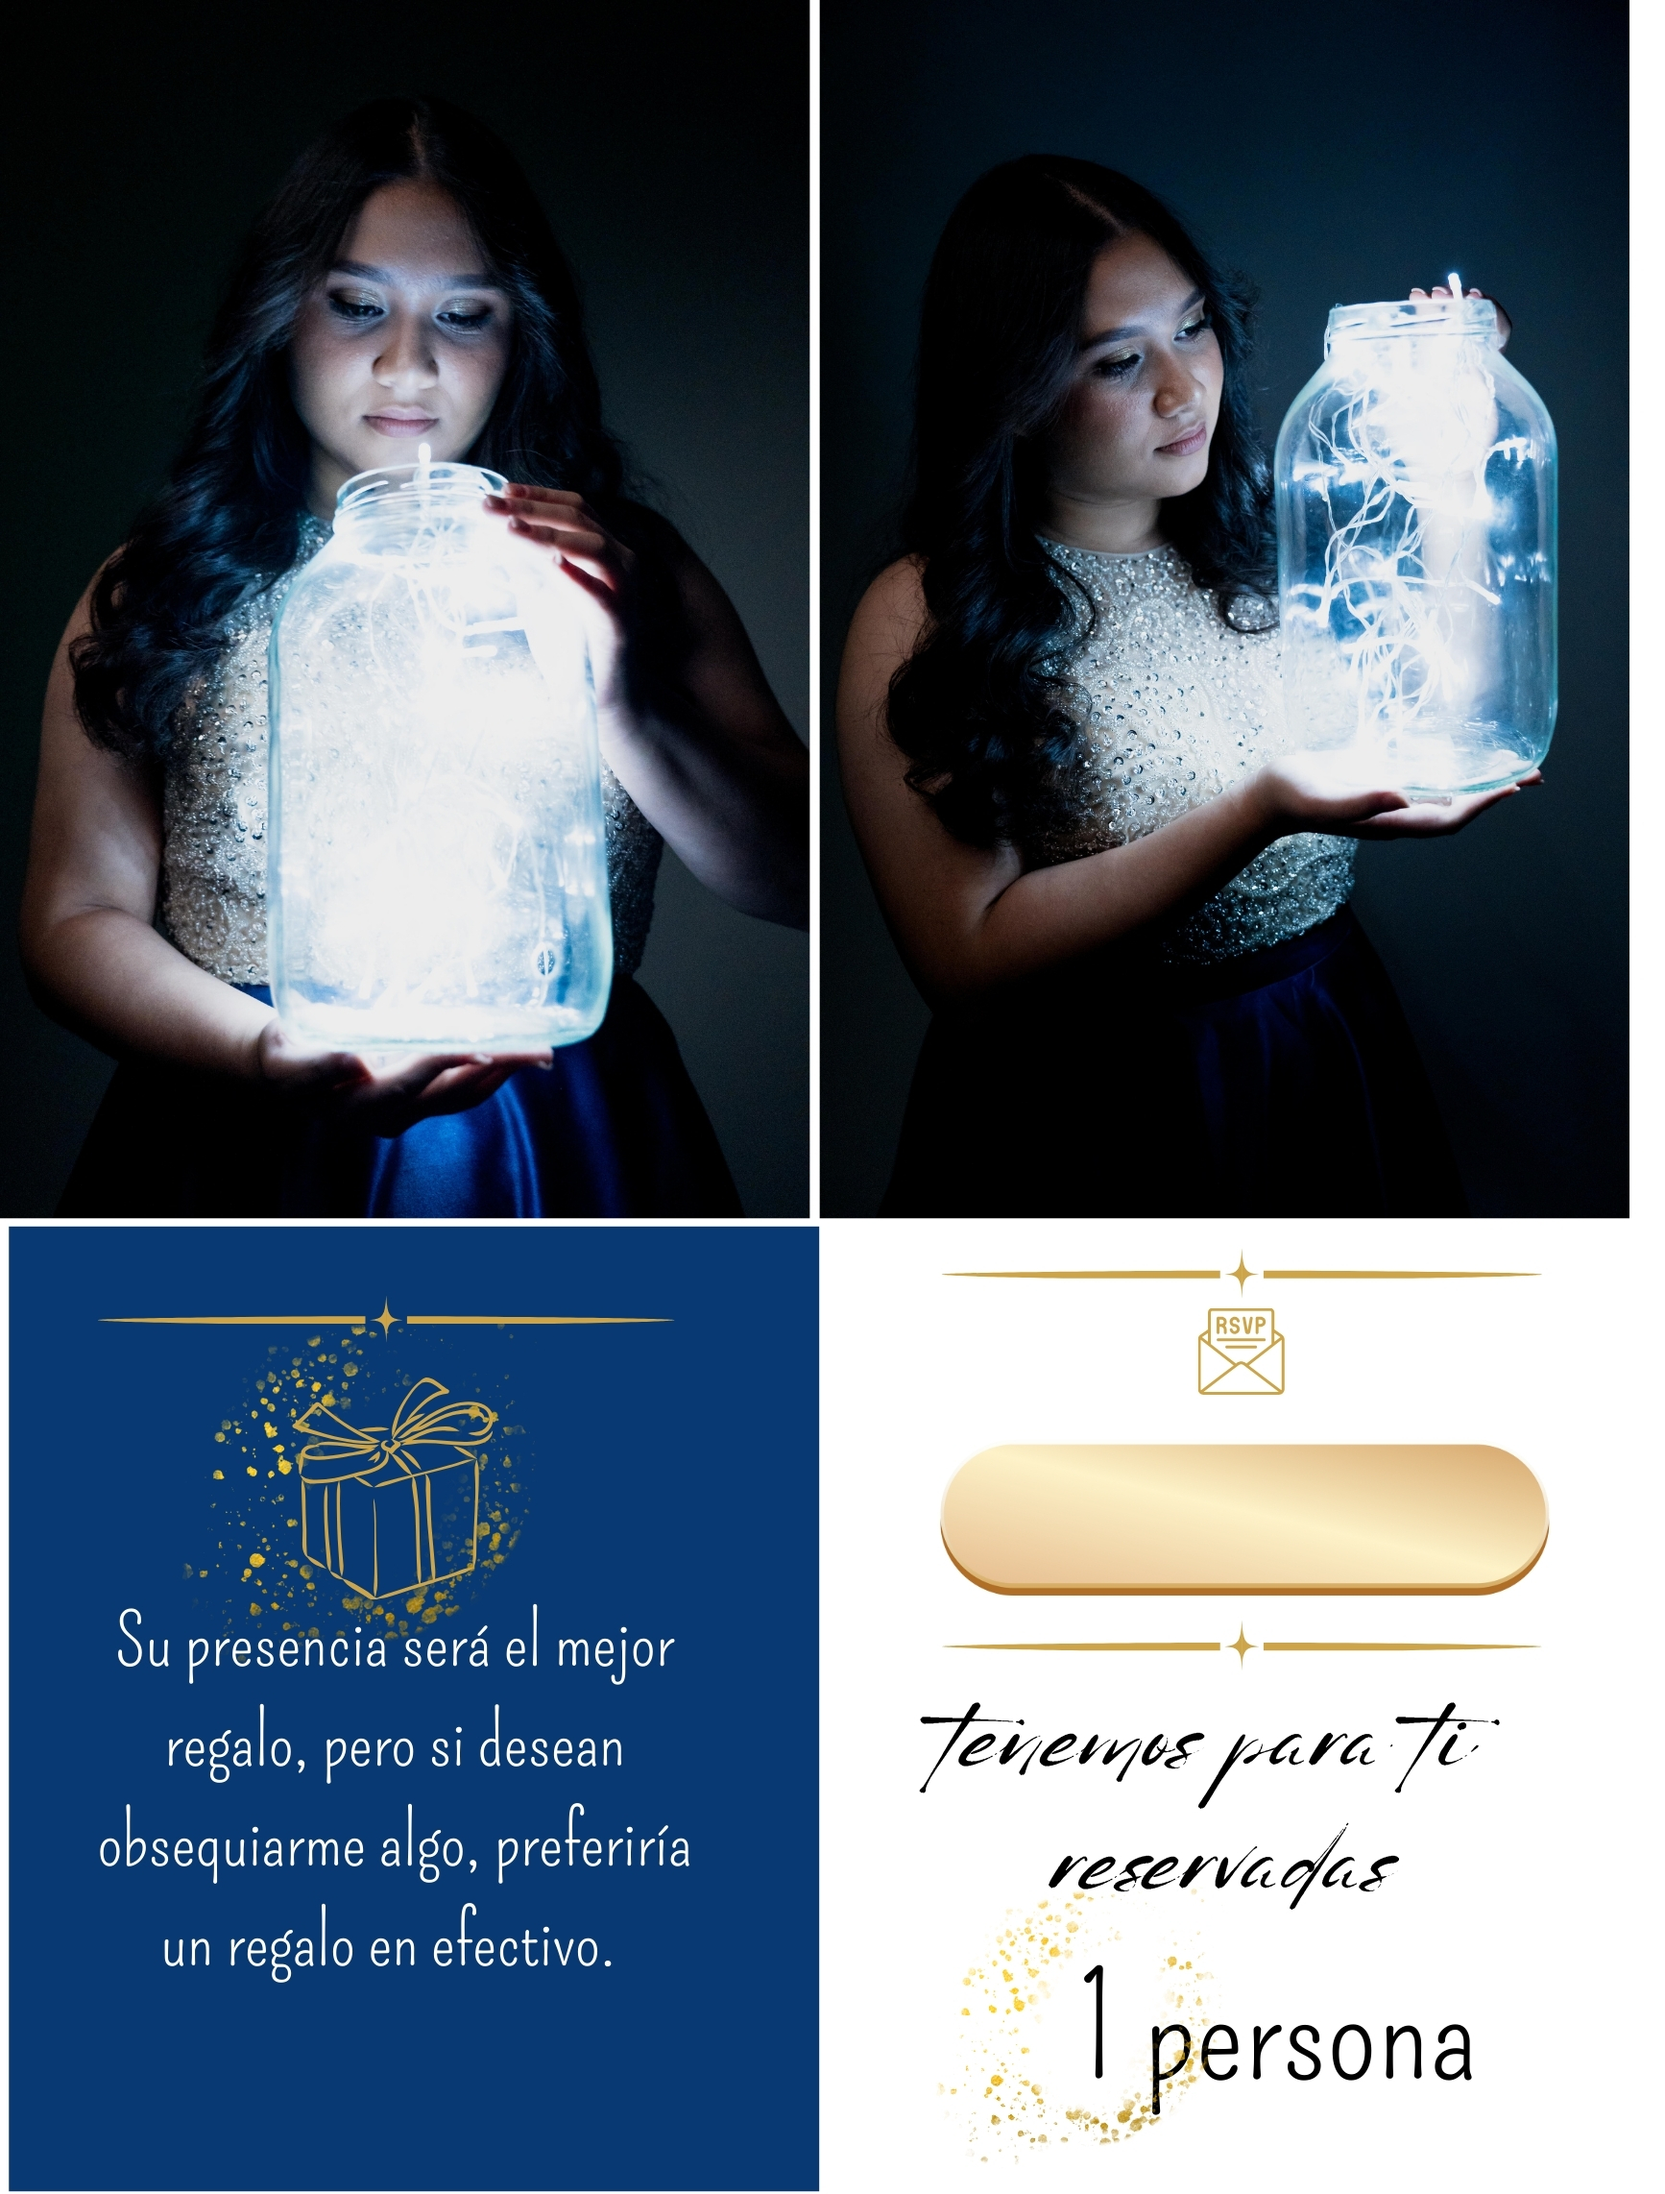
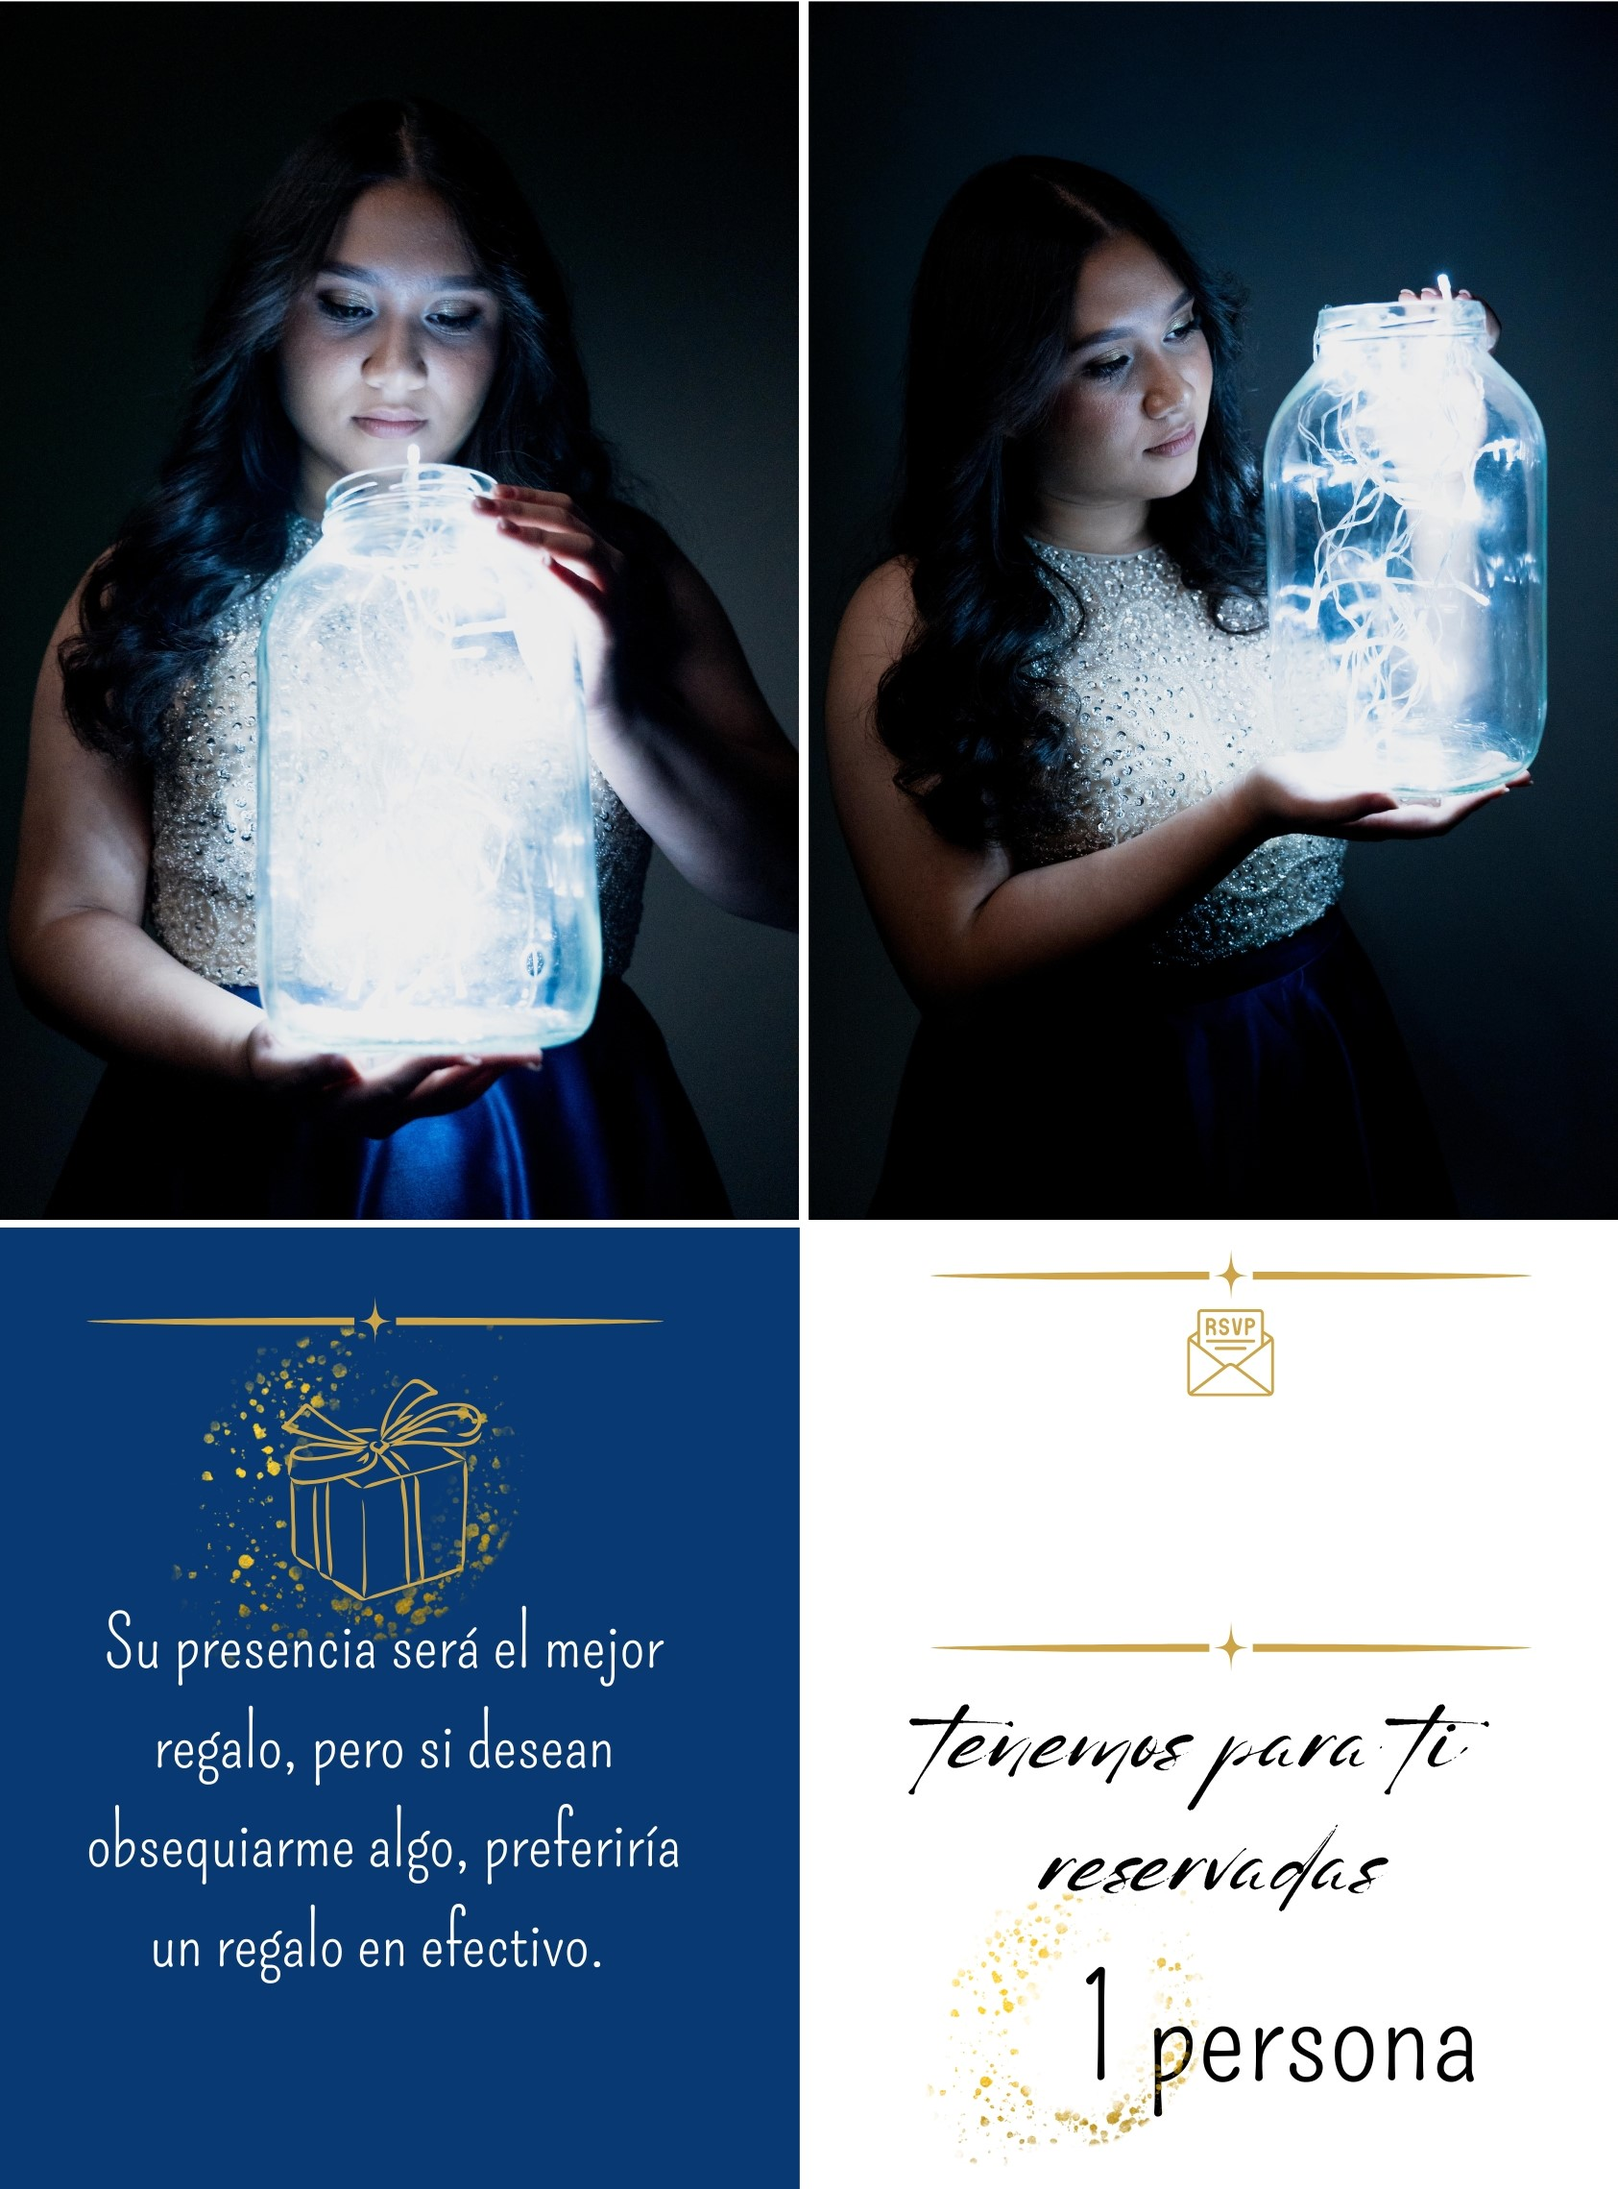
cambio de botones

diff --git a/css/style.css b/css/style.css
@@ -419,7 +419,7 @@ a.de-button.large.rounded, span.de-button.large.rounded, input[type=submit].larg
     padding: 10px;
     border-radius: 1px;
     text-decoration: none;
-    color: #333;
+    color: rgb(255, 255, 255);
     font-size: 25px;
     font-weight: bold;
     z-index: 1;
@@ -427,18 +427,20 @@ a.de-button.large.rounded, span.de-button.large.rounded, input[type=submit].larg
 
     .enlace-sobre-imagen1 {
         position: absolute;
-        bottom: 17vh;
-        left: 88%;
-        transform: translateX(-88%);
-        padding: 50px 20px;
+        bottom: 17.5vh;
+        left: 95%;
+        transform: translateX(-95%);
+        padding: 10px 5px; /* Reducir el padding para evitar que ocupe más espacio */
         border-radius: 1px;
         text-decoration: none;
-        color: #333;
+        color: black;
         font-size: 10px;
         font-weight: bold;
         z-index: 1;
         letter-spacing: 0px;
-	white-space: nowrap; /* Evita que el texto se divida en dos líneas */
+        white-space: nowrap; /* Evita que el texto se divida en dos líneas */
+        
+
         }
 
         /*footer*/
@@ -497,10 +499,17 @@ a.de-button.large.rounded, span.de-button.large.rounded, input[type=submit].larg
         padding: 8px 20px;
         font-size: 12px;
     }
-
     /* Enlaces superpuestos en imágenes */
-    .enlace-sobre-imagen, .enlace-sobre-imagen1 {
+    .enlace-sobre-imagen1 {
         font-size: 12px;
+        padding: 15px;
+        text-align: center; /* Centra el contenido horizontalmente */
+        
+    }
+
+     /* Enlaces superpuestos en imágenes */
+     .enlace-sobre-imagen {
+        font-size: 15px;
         padding: 15px;
     }
 

diff --git a/index.html b/index.html
@@ -69,7 +69,7 @@
             <div style="position: relative;">
                 <a href="img/DS0002.jpg" class="swipebox" title="My Caption" target="_blank">
                     <img src="img/DS0002.jpg" alt="image" class="img-fluid">
-                    <a href="https://maps.app.goo.gl/dHMfErYiFaTecZC69" class="enlace-sobre-imagen">Ver ubicación</a>
+                    <a href="https://maps.app.goo.gl/dHMfErYiFaTecZC69" class="enlace-sobre-imagen de-button small rounded">Ver ubicación</a>
                 </a>
             </div>
         </div>
@@ -89,7 +89,7 @@
         <div style="position: relative;">
             <a href="img/DS0004.jpg" class="swipebox" title="My Caption" target="_blank">
                 <img src="img/DS0004.jpg" alt="image" class="img-fluid">
-                <a href="https://api.whatsapp.com/send?phone=+50240357590&text=Hola%20quiero%20confirmar%20mi%20asistencia%20%F0%9F%8E%8A%F0%9F%A5%B3" class="enlace-sobre-imagen1">Confirmar Asistencia</a>
+                <a href="https://api.whatsapp.com/send?phone=+50240357590&text=Hola%20quiero%20confirmar%20mi%20asistencia%20%F0%9F%8E%8A%F0%9F%A5%B3" class="enlace-sobre-imagen1 de-button small rounded">Confirmar Asistencia</a>
             </a>
         </div>            
 
